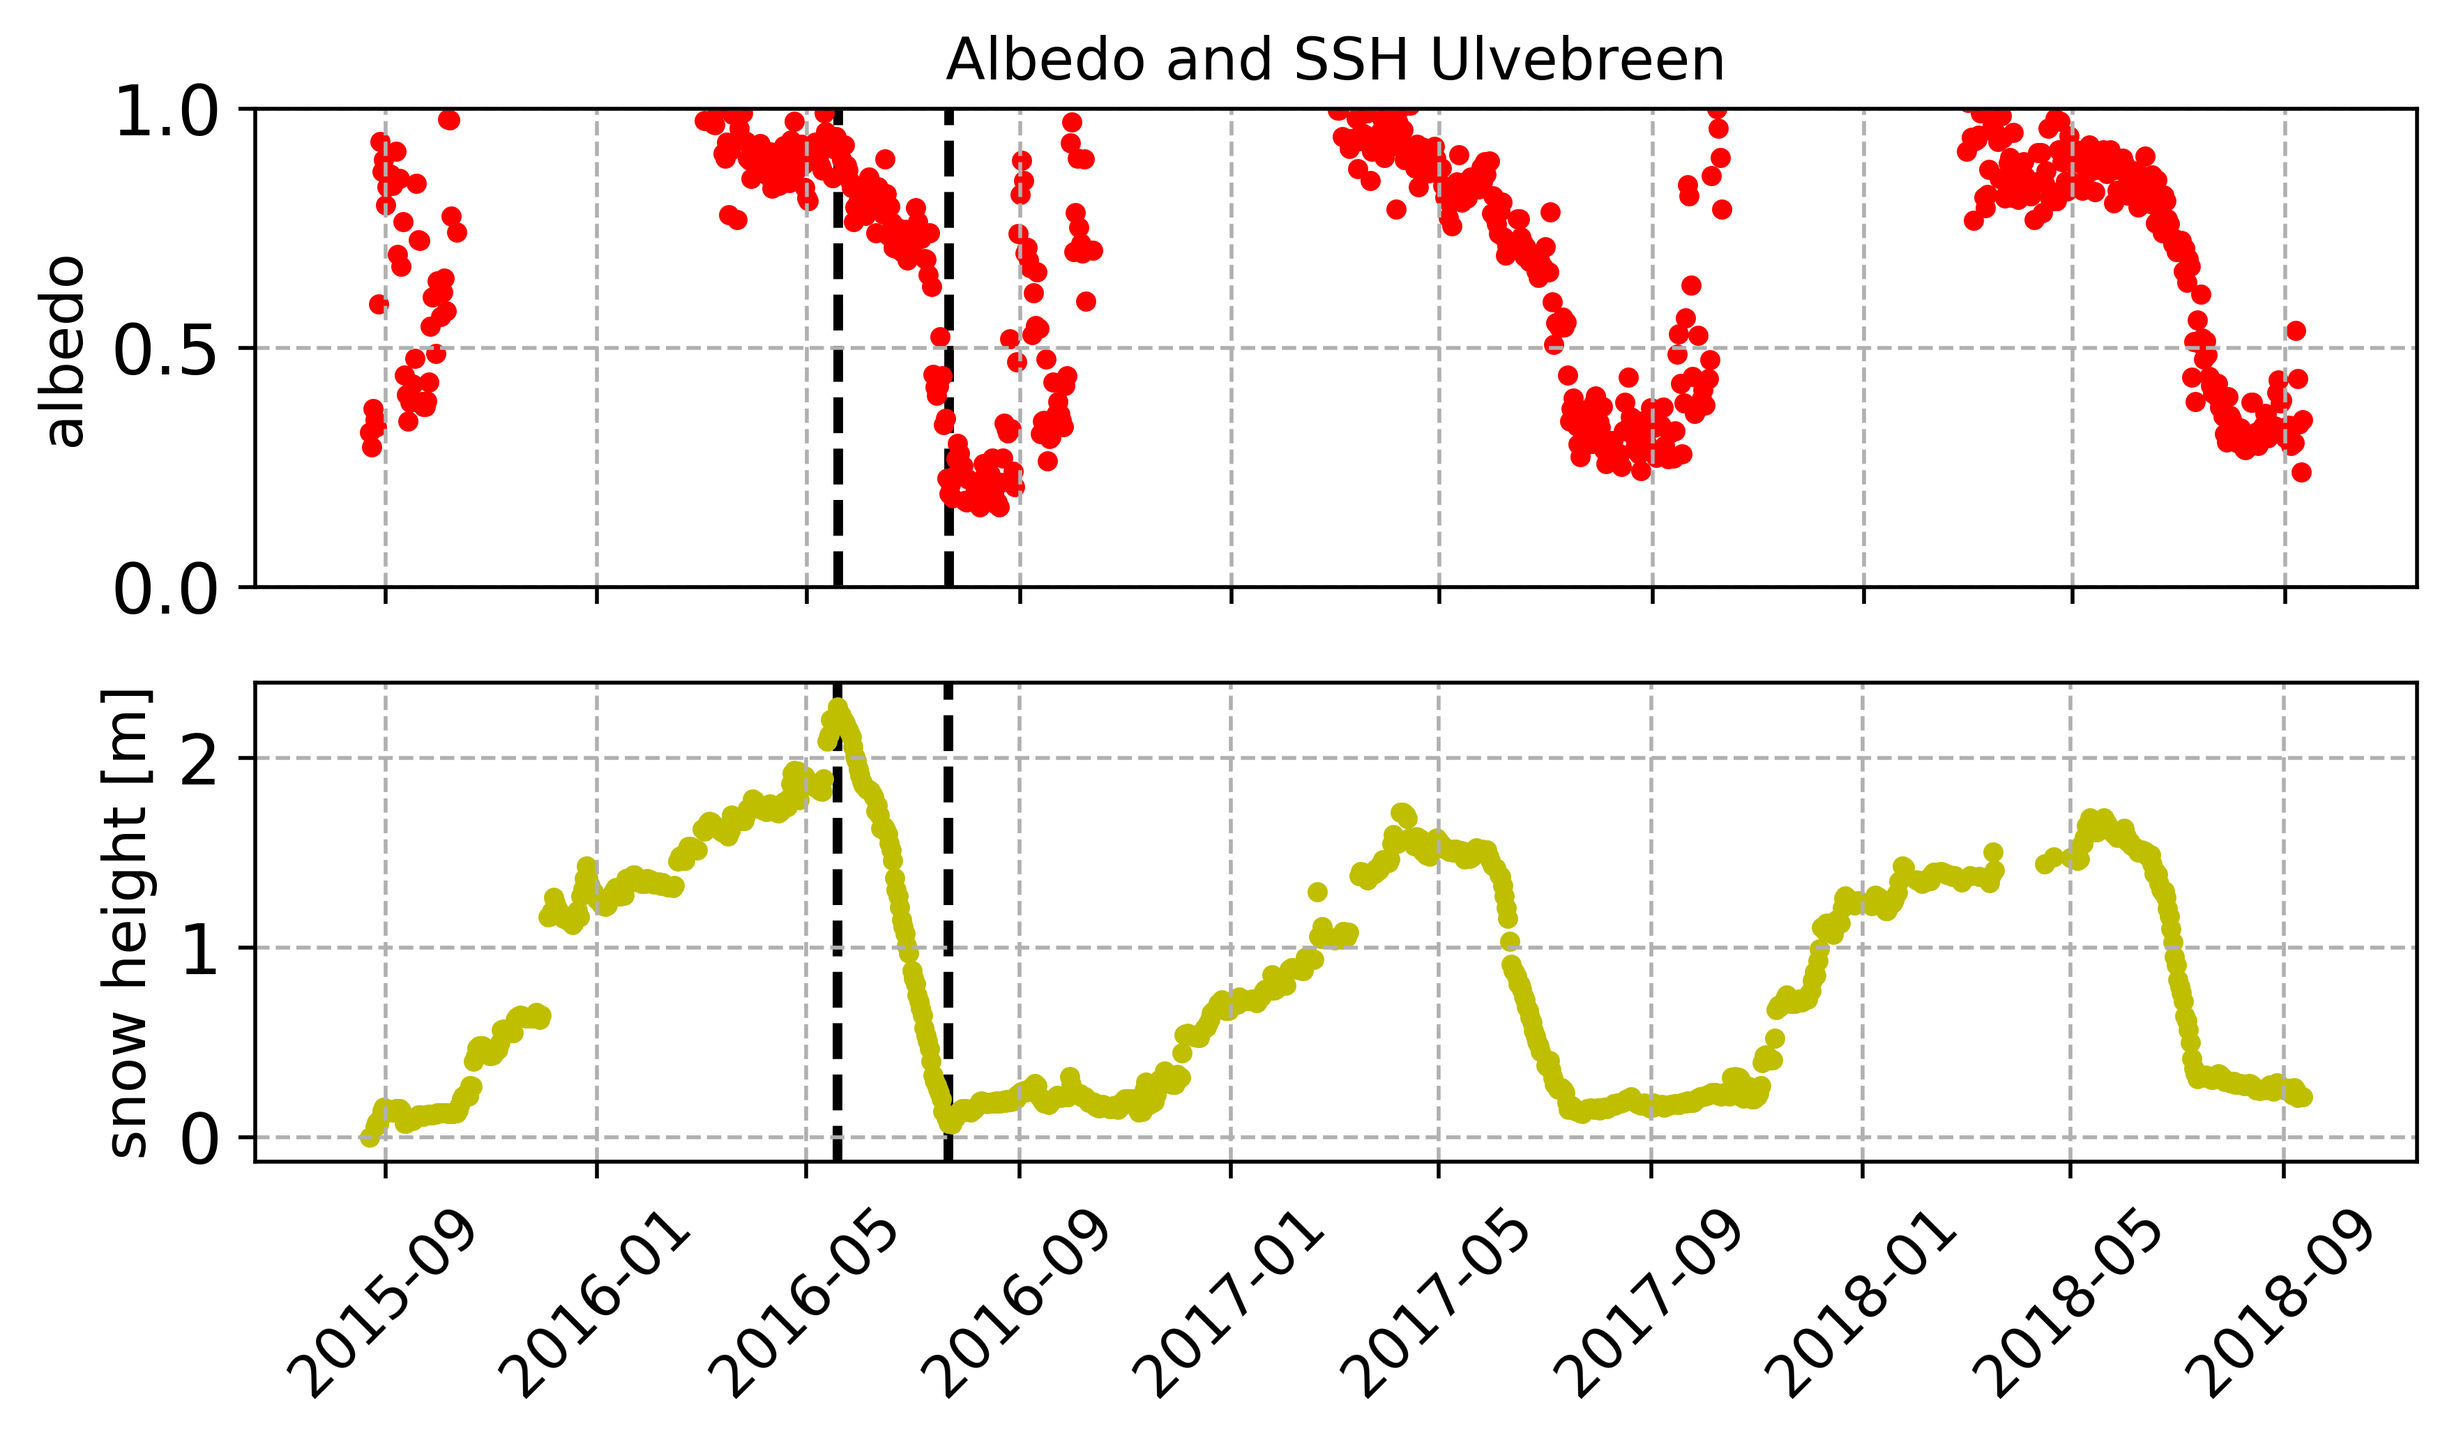
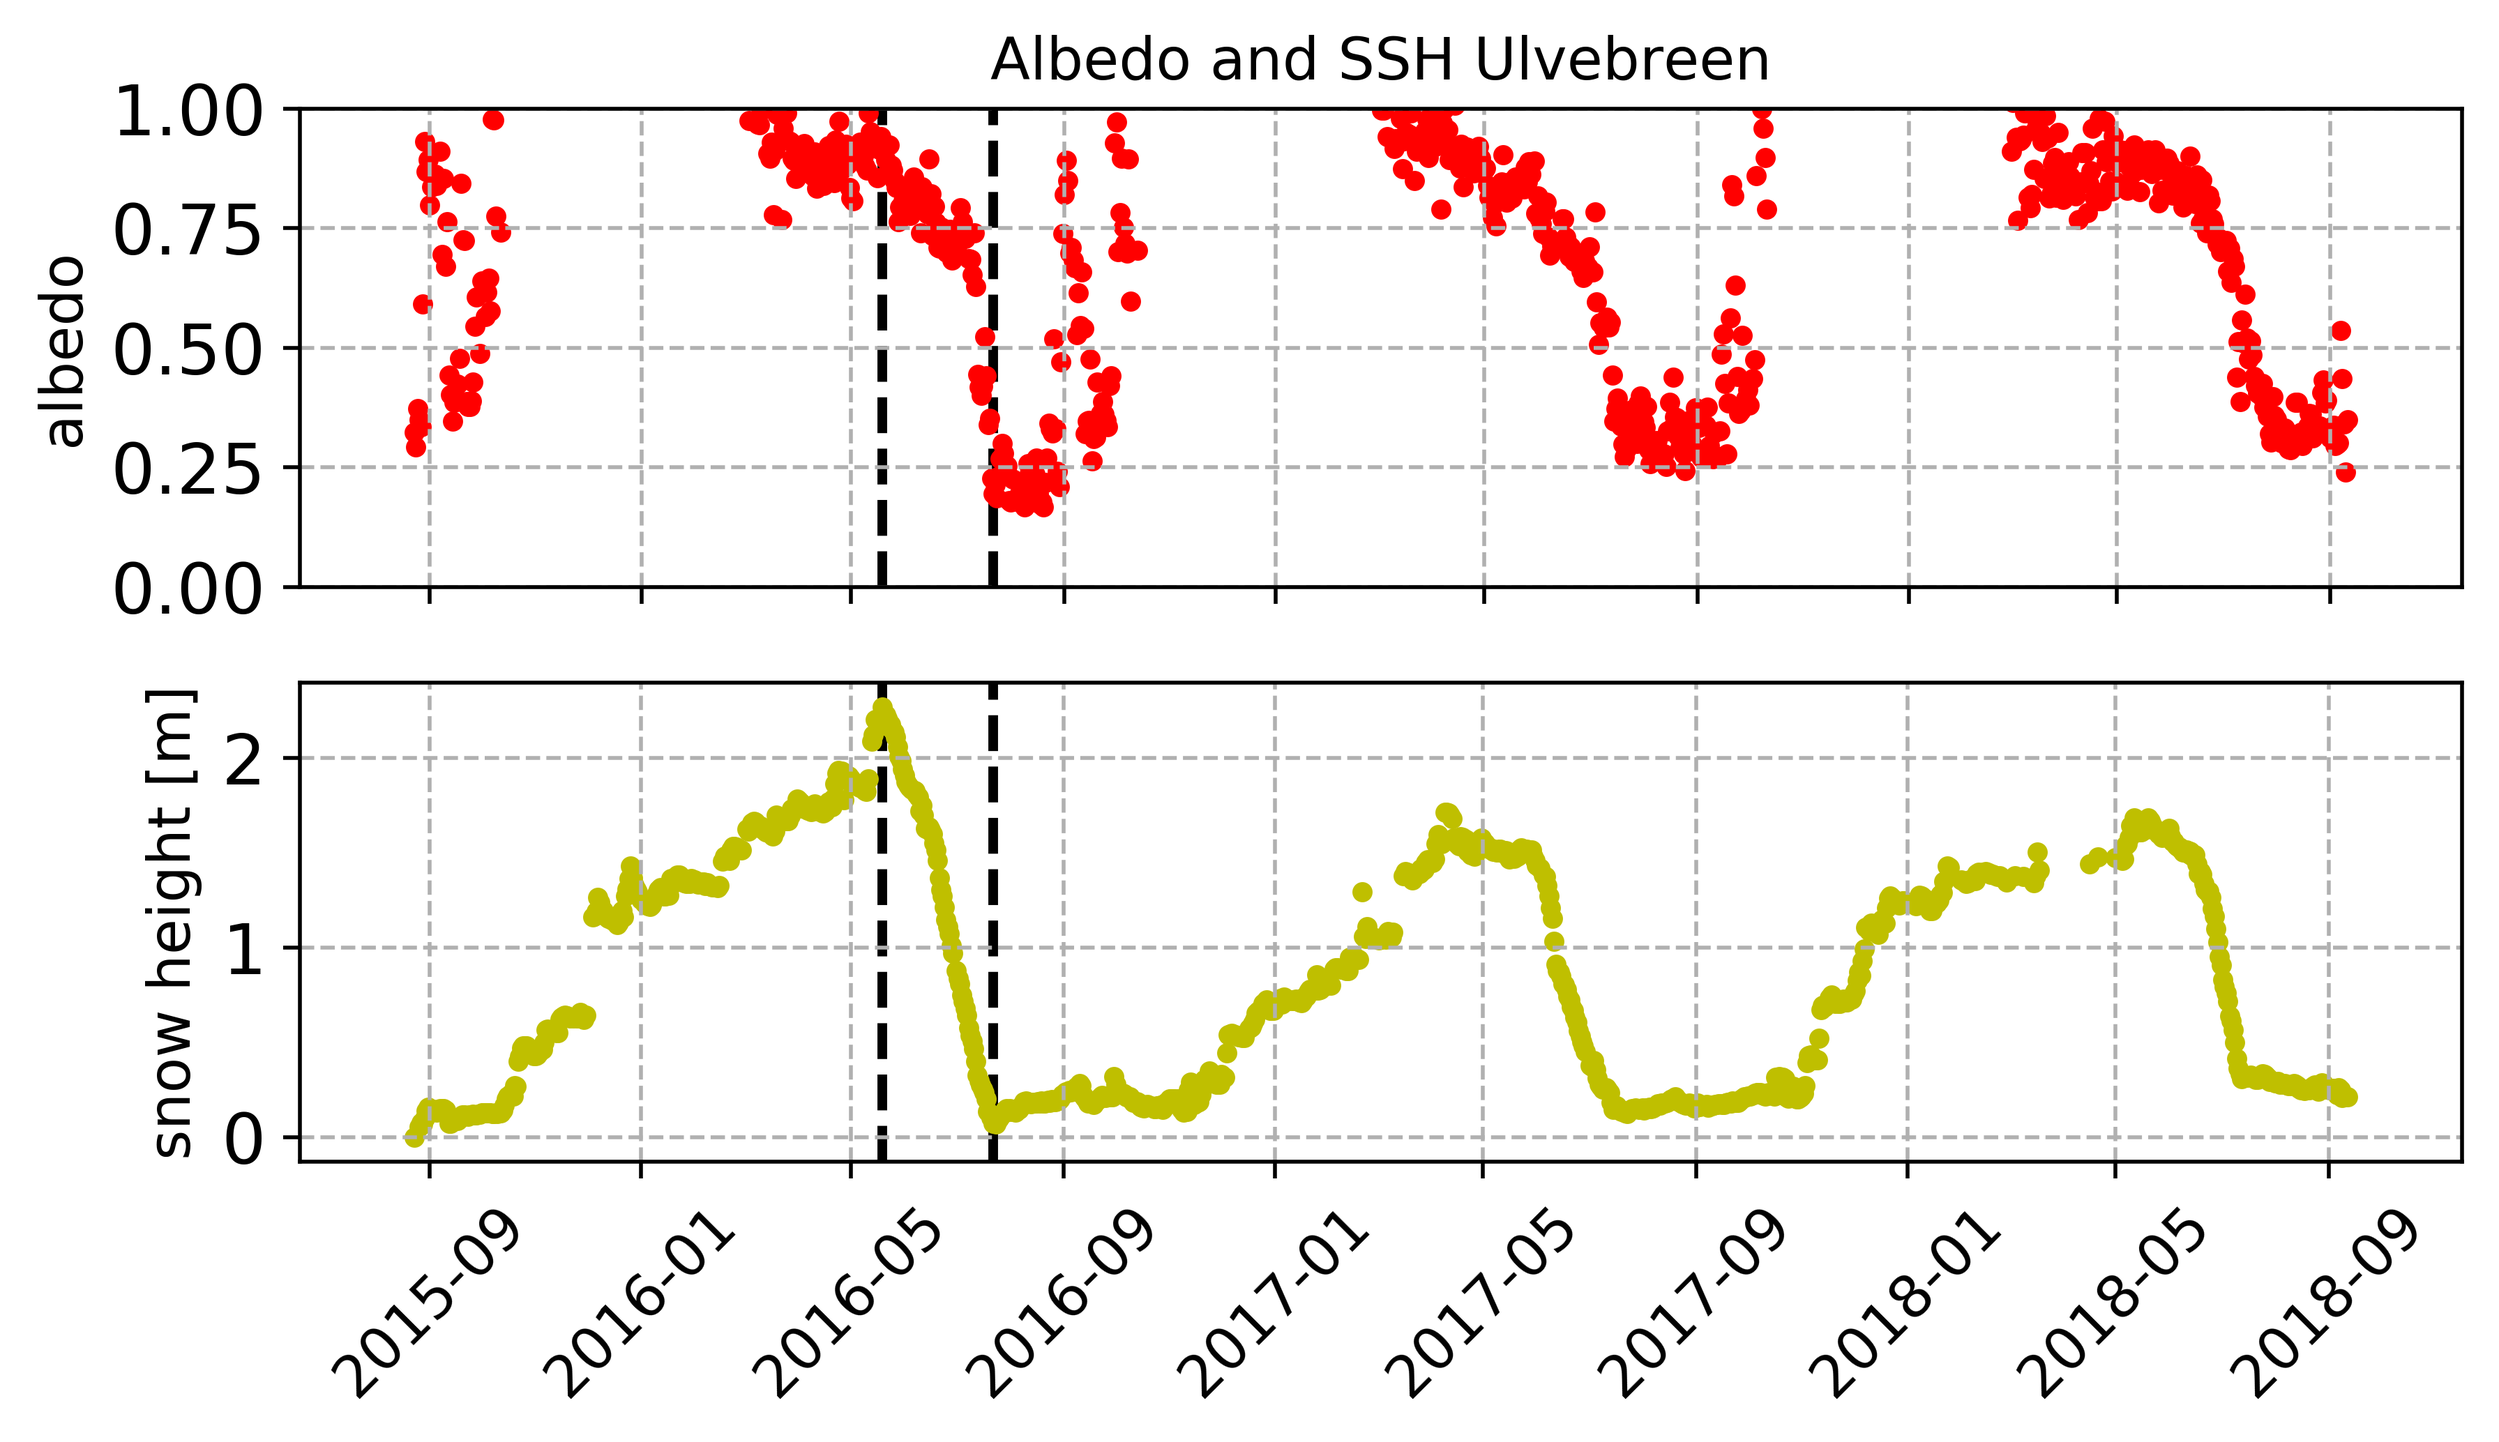
sneeuwhoogte en albedo

diff --git a/snow_shortwave.py b/snow_shortwave.py
@@ -15,7 +15,17 @@ Sout_Uday = np.load("sneeuwhoogte/Ulve/NRLavg[W_m2]day.npy")
 SSH_U = np.load("sneeuwhoogte/Ulve/SSH[m].npy")
 SSH_Uday = np.load("sneeuwhoogte/Ulve/SSH[m]day.npy")
 
+
+Sin_N = np.load("sneeuwhoogte/Norden/Sin.npy")
+Sin_Nday = np.load("sneeuwhoogte/Norden/Sinday.npy")
+Sout_N = np.load("sneeuwhoogte/Norden/Sout.npy")
+Sout_Nday = np.load("sneeuwhoogte/Norden/Soutday.npy")
+H_N = np.load("sneeuwhoogte/Norden/H1.npy")
+H_Nday = np.load("sneeuwhoogte/Norden/H1day.npy")
+
 #%%
+'''Ulvebreen'''
+
 minday = Sin_Uday[0]
 maxday = Sin_Uday[-1]
 
@@ -50,9 +60,72 @@ for i in range (len(T_c[:,0])):
         albedo[i] = T_c[i,1]/T_c[i,0]
 
 
+#Summer albedo Ulvebreen
+
+dates_year = np.array(dates, dtype='datetime64[Y]')
+dates_day = dates - dates_year
+
+summ_albedoU=np.zeros((332))
+count=0
+for i in range ((len(albedo))):
+    if dates_day[i]>np.timedelta64(202,'D') and dates_day[i]<np.timedelta64(307,'D') :
+        summ_albedoU[count]=albedo[i]
+        count = count+1
+
+mean_summ_albedoU = np.nanmean(summ_albedoU)
+print('Ulvebreen average summer albedo is', mean_summ_albedoU)
+
+#%%
+
+'''Nordenskioldbreen'''
+
+minday = Sin_Nday[0]
+maxday = Sin_Nday[-1]
+
+datesN = np.arange(minday, maxday, dtype='datetime64[1D]')
+
+TN_c = np.empty([len(datesN),2])
+TN_c[:,:] = np.nan   
+    
+
+for i in range(0,len(datesN)):
+    try:
+    # the code that can cause the error
+        loc = np.where((Sin_Nday == datesN[i]))[0][0]
+        TN_c[i,0] = Sin_N[loc]
+    except IndexError: # catch the error
+        continue
+
+for i in range(0,len(datesN)):
+    try:
+    # the code that can cause the error
+        loc_ulv  = np.where(Sout_Nday == datesN[i])[0][0]
+        TN_c[i,1] = Sout_N[loc_ulv]
+    except IndexError: # catch the error
+        continue
+#%%
+
+albedoN = np.zeros((len(TN_c[:,0])))
+for i in range (len(TN_c[:,0])):
+    if TN_c[i,0]<10:
+        albedoN[i] = np.nan
+    else:
+        albedoN[i] = TN_c[i,1]/TN_c[i,0]
 
 
+dates_year = np.array(datesN, dtype='datetime64[Y]')
+dates_day = datesN - dates_year
 
+
+summ_albedoN=[]
+for i in range ((len(albedoN))):
+    if dates_day[i]>np.timedelta64(202,'D') and dates_day[i]<np.timedelta64(307,'D') :
+        summ_albedoN.append(albedoN[i])
+
+mean_summ_albedoN = np.nanmean(summ_albedoN)
+print('Nordenskiold average summer albedo is', mean_summ_albedoN)
+
+#%%
 
 params = {'legend.fontsize': 'large',
           'figure.figsize': (8, 4),
@@ -61,14 +134,6 @@ params = {'legend.fontsize': 'large',
          'xtick.labelsize':'large',
          'ytick.labelsize':'x-large'}
 pylab.rcParams.update(params)
-
-#fig, ax1 = plt.subplots()
-#plt.scatter(Sin_Uday,Sin_U , label='Sin', s=10, c='r')
-#plt.scatter(Sout_Uday,Sout_U, label='Sout', s=10, c='b')
-#ax1.set_xlabel('date')
-## Make the y-axis label, ticks and tick labels match the line color.
-#ax1.set_ylabel('radiation [W/m2]')
-#ax1.tick_params('y')
 
 fig, ax1 = plt.subplots()
 plt.scatter(dates , albedo , label='albedo', s=10, c='r')
@@ -102,6 +167,7 @@ plt.title('Albedo and SSH Ulvebreen')
 ax1.grid(linestyle='--')
 ax1.scatter(dates , albedo , label='albedo', s=10, c='r')
 ax1.set_ylim([0,1])
+ax1.set_yticks([0,0.25,0.5,0.75,1])
 ax1.set_ylabel('albedo')
 ax1.tick_params('y')
 ax1.xaxis.set_ticklabels([])
@@ -122,3 +188,33 @@ ax2.axvline(x=SSH_Uday[310],c="black", linestyle='--', linewidth=2, zorder=0,cli
 plt.draw()
 fig.savefig('sneeuwhoogte/final.png', bbox_inches="tight", dpi=500)
 
+#%%
+'''Nordenskioldbreen plot'''
+
+fig2 = plt.figure()
+
+ax1 = fig2.add_subplot(211)
+plt.title('Albedo and SSH Nordenskioldbreen')
+ax1.grid(linestyle='--')
+ax1.scatter(datesN [:2665] , albedoN [:2665] , label='albedo', s=10, c='r')
+ax1.set_ylim([0,1])
+ax1.set_yticks([0,0.25,0.5,0.75,1])
+ax1.set_ylabel('albedo')
+ax1.tick_params('y')
+ax1.xaxis.set_ticklabels([])
+
+ax2 = fig2.add_subplot(212)
+ax2.grid(linestyle='--')
+ax2.scatter(H_Nday, -H_N+np.max(H_N), label='SSH',  s=10, c= 'y')
+ax2.set_ylabel('snow height [m]')
+ax2.tick_params('y')
+plt.xticks(rotation=45)
+
+ax1.axvline(x=datesN[1916],c="black", linestyle='--', linewidth=2,zorder=0, clip_on=False)
+ax2.axvline(x=H_Nday[1000],c="black", linestyle='--', linewidth=2, zorder=0,clip_on=False)
+
+ax1.axvline(x=H_Nday[1080],c="black", linestyle='--', linewidth=2,zorder=0, clip_on=False)
+ax2.axvline(x=H_Nday[1080],c="black", linestyle='--', linewidth=2, zorder=0,clip_on=False)
+
+plt.draw()
+fig2.savefig('sneeuwhoogte/NordenFinal.png', bbox_inches="tight", dpi=500)

diff --git a/cut_nolufthavn_data_ovelap.py b/cut_nolufthavn_data_ovelap.py
@@ -15,8 +15,8 @@ import numpy as np
 import matplotlib.pyplot as plt
 
 direc = ""
-data_ulve = "NRLavg[W_m2]" 
-data_norden = "Sout"
+data_ulve = "TSURF[C]" 
+data_norden = "T"
 
 T_ulve=np.load(direc+"avgUlvebreen/"+data_ulve+".npy")
 T_ulveday=np.load(direc+"avgUlvebreen/"+data_ulve+"day.npy")

diff --git a/cut_otherdata_overlap.py b/cut_otherdata_overlap.py
@@ -14,8 +14,8 @@ import numpy as np
 import matplotlib.pyplot as plt
 
 direc = ""
-data_ulve = "THUT2m[K]" 
-data_norden = "T2m"
+data_ulve = "TSURF[C]" 
+data_norden = "Tsurf"
 data_luft = "TA"
 
 T_ulve=np.load(direc+"avgUlvebreen/"+data_ulve+".npy")
